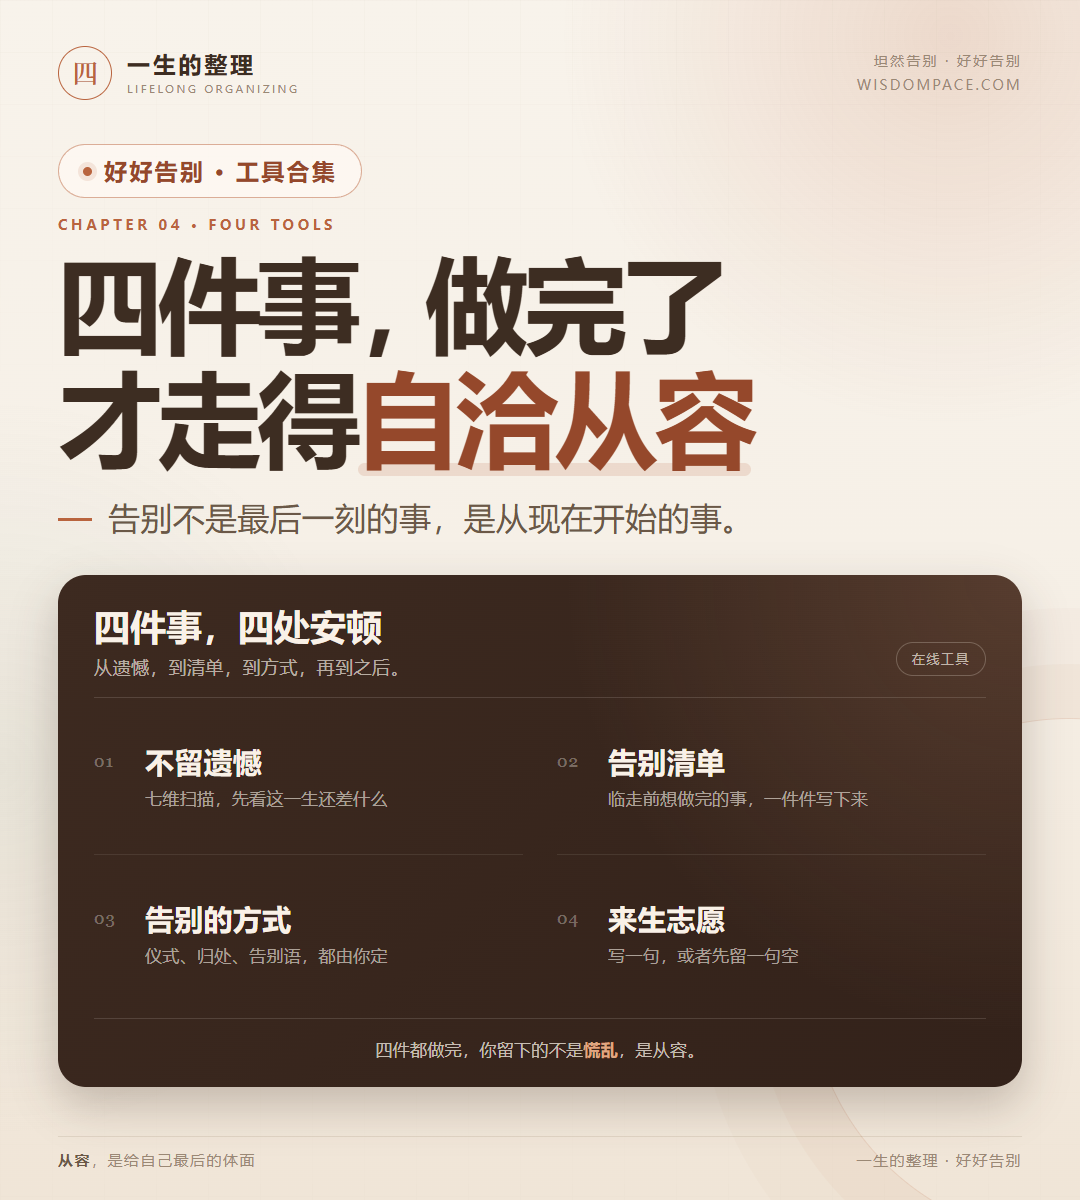
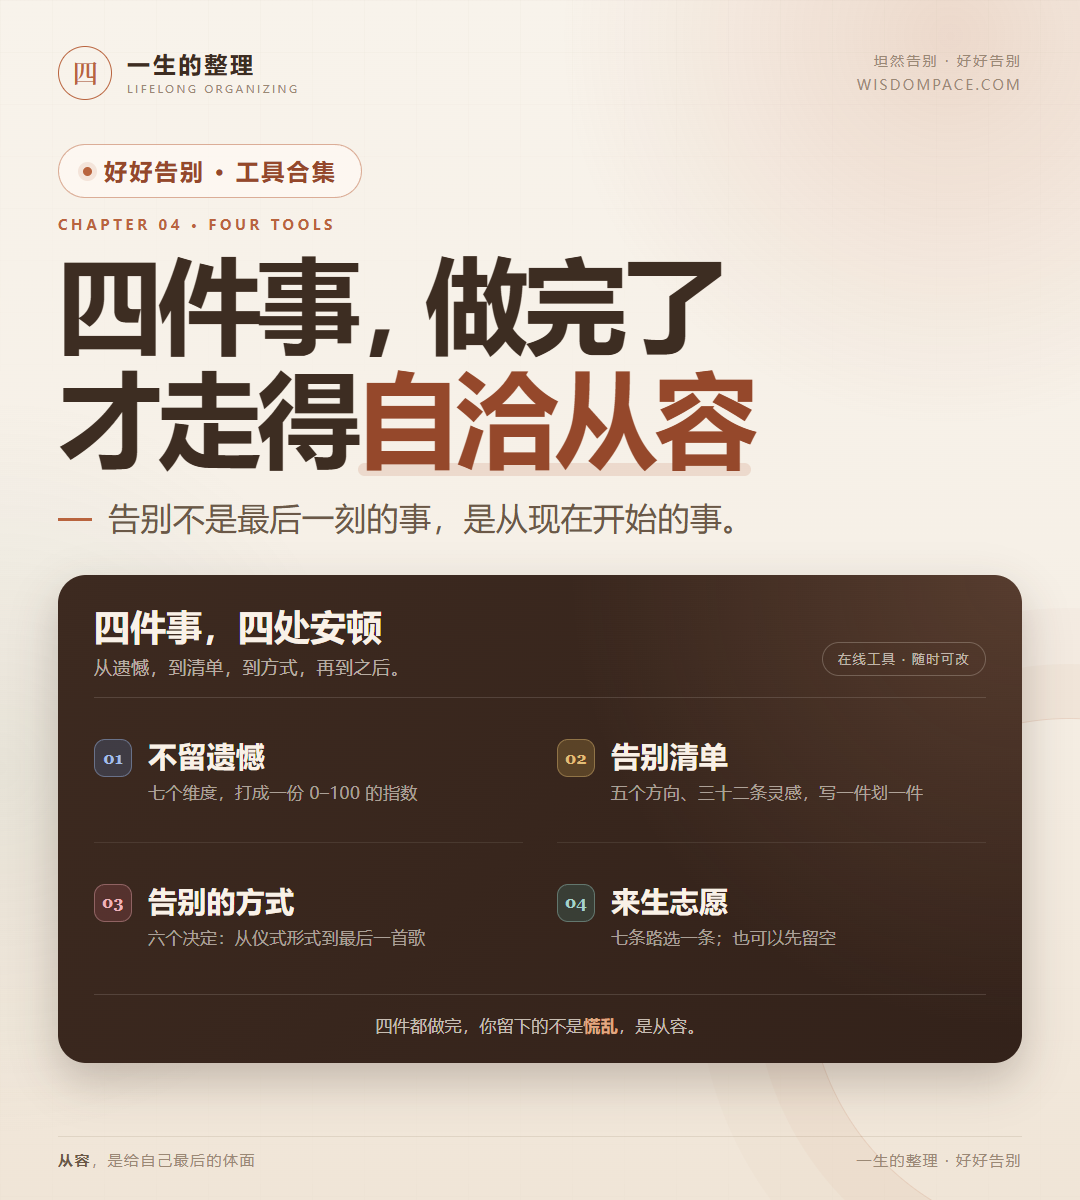
posters: 第四章封面按四个工具定稿重做，编号改为四色徽标

diff --git a/posters/chapter4-cover.html b/posters/chapter4-cover.html
@@ -14,6 +14,11 @@
       --accent: #b9643e;
       --accent-deep: #95482b;
       --line: rgba(122, 96, 70, 0.18);
+      /* 四张工具海报的主色（深色底上的提亮版），用作四个条目的色标 */
+      --m1: #a3bde8; /* 不留遗憾 · 深蓝 #45608a */
+      --m2: #e2bd77; /* 告别清单 · 赭金 #a8863f */
+      --m3: #eeb3b9; /* 告别的方式 · 玫红 #9c4a55 */
+      --m4: #a5d3cb; /* 来生志愿 · 青竹绿 #3e7f76 */
     }
     html, body {
       width: 1080px;
@@ -226,19 +231,32 @@
     }
     .stage {
       display: grid;
-      grid-template-columns: 40px 1fr;
-      gap: 11px;
-      padding: 46px 0 42px;
+      grid-template-columns: 38px 1fr;
+      gap: 16px;
+      padding: 40px 0 36px;
       border-bottom: 1px solid rgba(249, 241, 231, 0.09);
     }
     .stage:nth-last-child(-n+2) { border-bottom: 0; }
+    /* 编号改为四色徽标：颜色对应该工具海报的主色 */
     .stage-index {
-      padding-top: 7px;
-      color: rgba(249, 241, 231, 0.34);
+      display: grid;
+      place-items: center;
+      width: 38px;
+      height: 38px;
+      margin-top: 1px;
+      border: 1px solid var(--mc-bd, rgba(249, 241, 231, 0.16));
+      border-radius: 11px;
+      color: var(--mc, rgba(249, 241, 231, 0.4));
+      background: var(--mc-bg, linear-gradient(160deg, rgba(249, 241, 231, 0.08), rgba(249, 241, 231, 0.01)));
       font-family: Georgia, serif;
-      font-size: 17px;
-      letter-spacing: 0.06em;
+      font-size: 16px;
+      font-weight: 700;
+      letter-spacing: 0.02em;
     }
+    .stage:nth-child(1) { --mc: var(--m1); --mc-bg: rgba(70, 98, 140, 0.34); --mc-bd: rgba(163, 189, 232, 0.42); }
+    .stage:nth-child(2) { --mc: var(--m2); --mc-bg: rgba(168, 134, 63, 0.30); --mc-bd: rgba(226, 189, 119, 0.40); }
+    .stage:nth-child(3) { --mc: var(--m3); --mc-bg: rgba(156, 74, 85, 0.28); --mc-bd: rgba(238, 179, 185, 0.38); }
+    .stage:nth-child(4) { --mc: var(--m4); --mc-bg: rgba(62, 127, 118, 0.28); --mc-bd: rgba(165, 211, 203, 0.38); }
     .stage-title {
       font-size: 29px;
       font-weight: 700;
@@ -310,35 +328,35 @@
           <h2>四件事，四处安顿</h2>
           <p>从遗憾，到清单，到方式，再到之后。</p>
         </div>
-        <span class="stage-tag">在线工具</span>
+        <span class="stage-tag">在线工具 · 随时可改</span>
       </div>
       <div class="stages">
         <div class="stage">
           <div class="stage-index">01</div>
           <div>
             <div class="stage-title">不留遗憾</div>
-            <div class="stage-desc">七维扫描，先看这一生还差什么</div>
+            <div class="stage-desc">七个维度，打成一份 0–100 的指数</div>
           </div>
         </div>
         <div class="stage">
           <div class="stage-index">02</div>
           <div>
             <div class="stage-title">告别清单</div>
-            <div class="stage-desc">临走前想做完的事，一件件写下来</div>
+            <div class="stage-desc">五个方向、三十二条灵感，写一件划一件</div>
           </div>
         </div>
         <div class="stage">
           <div class="stage-index">03</div>
           <div>
             <div class="stage-title">告别的方式</div>
-            <div class="stage-desc">仪式、归处、告别语，都由你定</div>
+            <div class="stage-desc">六个决定：从仪式形式到最后一首歌</div>
           </div>
         </div>
         <div class="stage">
           <div class="stage-index">04</div>
           <div>
             <div class="stage-title">来生志愿</div>
-            <div class="stage-desc">写一句，或者先留一句空</div>
+            <div class="stage-desc">七条路选一条；也可以先留空</div>
           </div>
         </div>
       </div>
